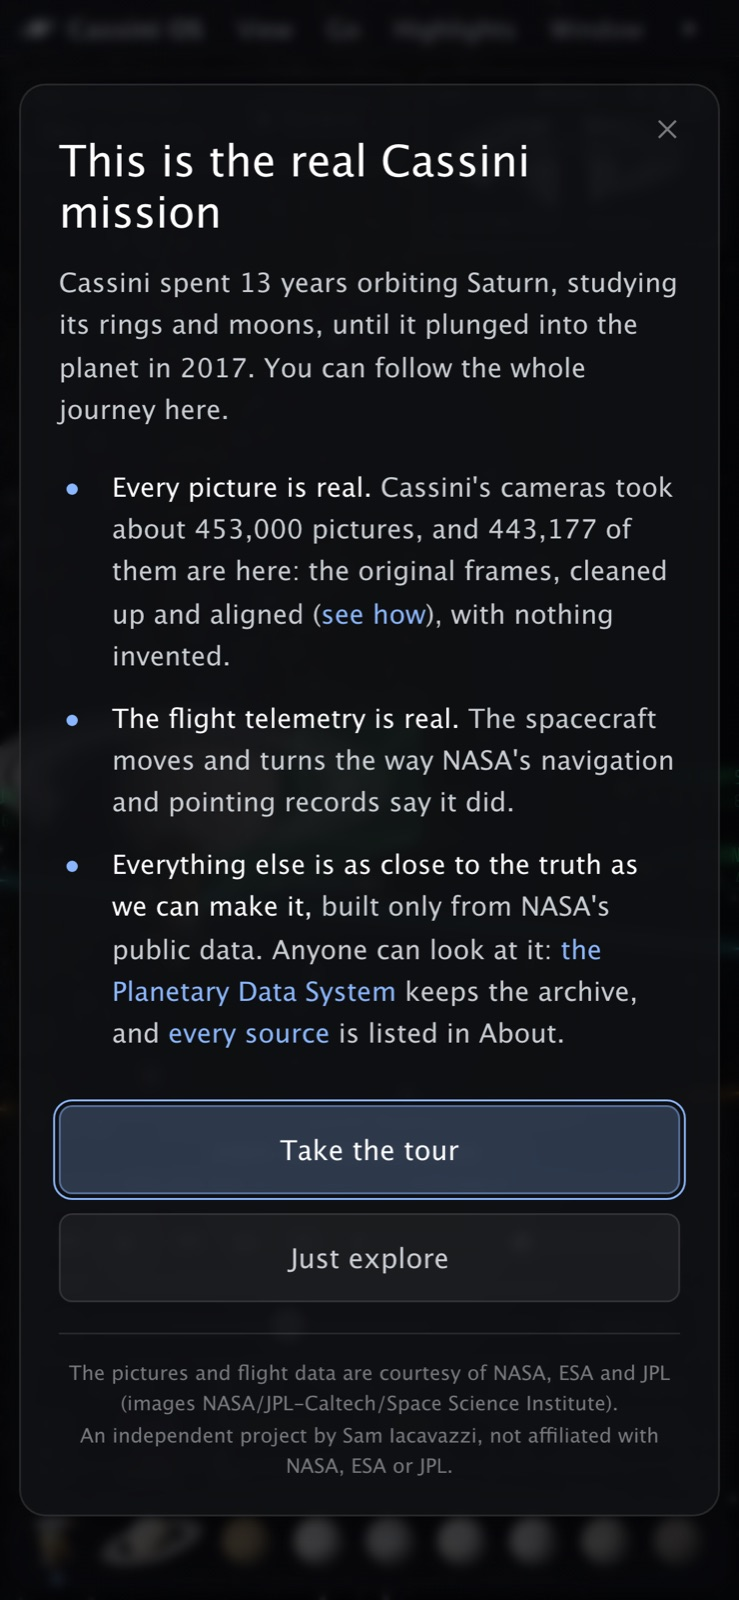
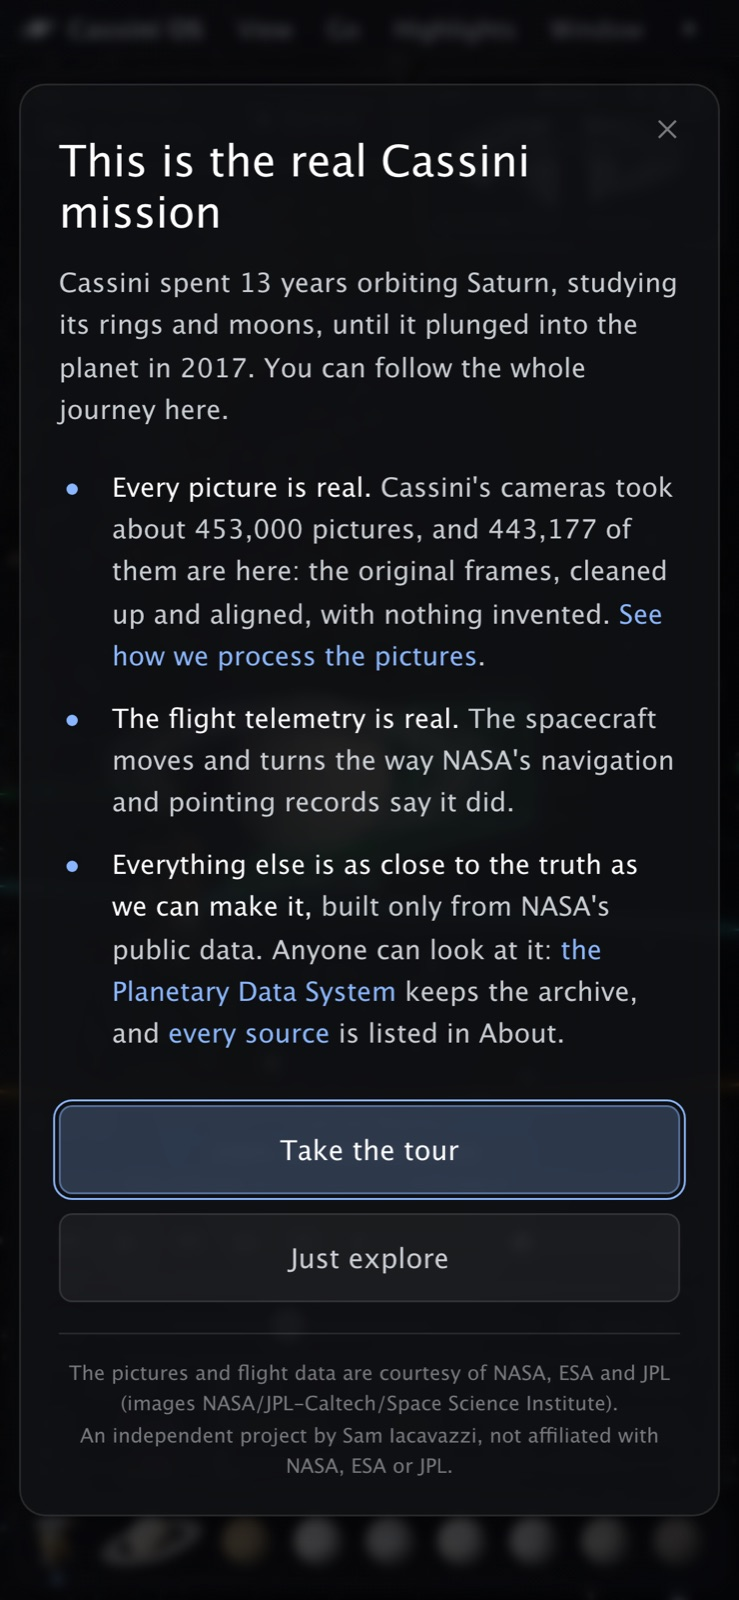
Welcome: the How page link reads "See how we process the pictures", after the first point

Changed region(s): [[0.1556, 0.375, 0.9026, 0.4375], [0.9959, 0.5312, 1.0, 0.5625], [0.0, 0.4688, 0.0311, 0.5]]

diff --git a/web/cassini-os/index.html b/web/cassini-os/index.html
@@ -13652,7 +13652,7 @@ void main() {
   window.cassiniAbout = { open, addTab, esc, close: () => show(false), credits: CREDITS };
 
   // ---- which version this is: this page's build id (build.py writes it), and what the frame server says it serves ----
-  const BUILD = /*BUILD*/"b17d158345f7";
+  const BUILD = /*BUILD*/"11b933bc962e";
   const FRAMES = (() => {                       // the frame server, chosen as the camera window chooses it
     const q = new URLSearchParams(location.search).get("frames");
     if (q) return q.replace(/\/$/, "");
@@ -13704,7 +13704,7 @@ void main() {
     title: "This is the real Cassini mission",
     lead: "Cassini spent 13 years orbiting Saturn, studying its rings and moons, until it plunged into the planet in 2017. You can follow the whole journey here.",
     points: [
-      "<b>Every picture is real.</b> Cassini's cameras took about 453,000 pictures, and {pictures} of them are here: the original frames, cleaned up and aligned (<a href=\"how/\" target=\"_blank\" rel=\"noopener\">see how</a>), with nothing invented.",
+      "<b>Every picture is real.</b> Cassini's cameras took about 453,000 pictures, and {pictures} of them are here: the original frames, cleaned up and aligned, with nothing invented. <a href=\"how/\" target=\"_blank\" rel=\"noopener\">See how we process the pictures</a>.",
       "<b>The flight telemetry is real.</b> The spacecraft moves and turns the way NASA's navigation and pointing records say it did.",
       "<b>Everything else is as close to the truth as we can make it,</b> built only from NASA's public data. Anyone can look at it: <a href=\"https://pds-imaging.jpl.nasa.gov/\" target=\"_blank\" rel=\"noopener\">the Planetary Data System</a> keeps the archive, and <a href=\"#\" data-w=\"sources\">every source</a> is listed in About."
     ],

diff --git a/web/cassini-os/src/welcome.html b/web/cassini-os/src/welcome.html
@@ -72,7 +72,7 @@ body.phone #welcome button:not(.wx) { padding: 11px 16px; font-size: 14.5px; }
     title: "This is the real Cassini mission",
     lead: "Cassini spent 13 years orbiting Saturn, studying its rings and moons, until it plunged into the planet in 2017. You can follow the whole journey here.",
     points: [
-      "<b>Every picture is real.</b> Cassini's cameras took about 453,000 pictures, and {pictures} of them are here: the original frames, cleaned up and aligned (<a href=\"how/\" target=\"_blank\" rel=\"noopener\">see how</a>), with nothing invented.",
+      "<b>Every picture is real.</b> Cassini's cameras took about 453,000 pictures, and {pictures} of them are here: the original frames, cleaned up and aligned, with nothing invented. <a href=\"how/\" target=\"_blank\" rel=\"noopener\">See how we process the pictures</a>.",
       "<b>The flight telemetry is real.</b> The spacecraft moves and turns the way NASA's navigation and pointing records say it did.",
       "<b>Everything else is as close to the truth as we can make it,</b> built only from NASA's public data. Anyone can look at it: <a href=\"https://pds-imaging.jpl.nasa.gov/\" target=\"_blank\" rel=\"noopener\">the Planetary Data System</a> keeps the archive, and <a href=\"#\" data-w=\"sources\">every source</a> is listed in About."
     ],
